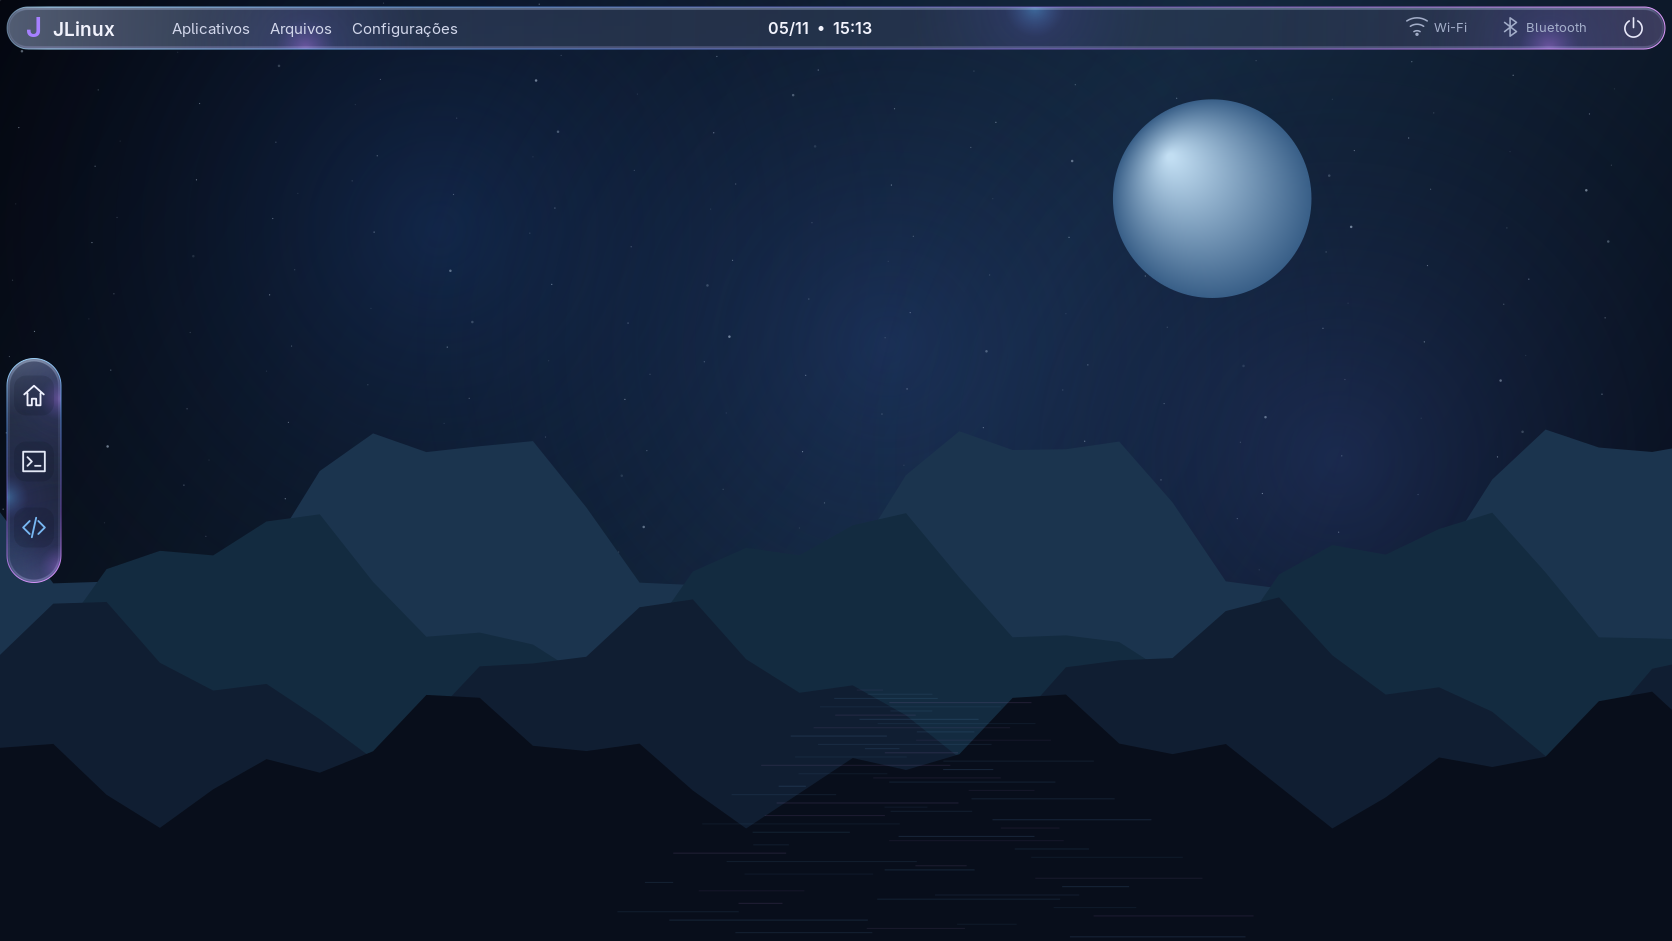
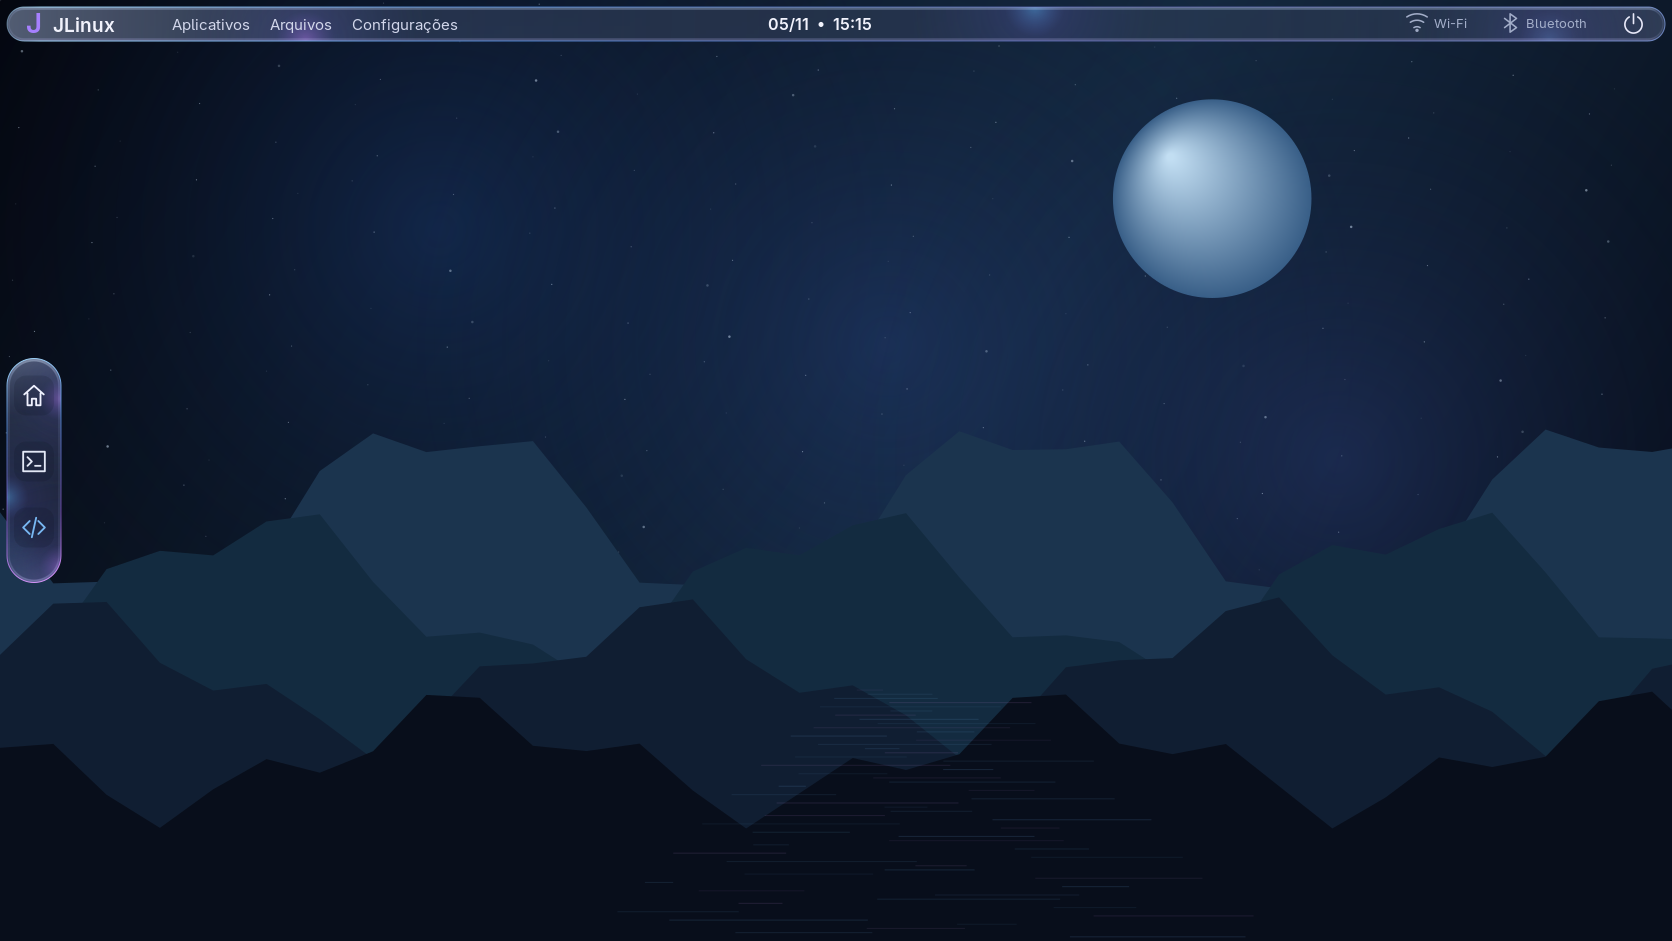
fix: reduce top panel height and balance right rim colors

Changed region(s): [[0.0, 0.0, 0.9952, 0.0616]]

diff --git a/src/effects/glass.c b/src/effects/glass.c
@@ -9,6 +9,7 @@ static void rounded(cairo_t *cr, struct ui_rect r, double radius) {
 }
 void jlinux_glass_paint(cairo_t *cr, struct ui_rect rect, double radius,
         cairo_surface_t *backdrop, double origin_x, double origin_y, struct jlinux_glass effects) {
+    bool horizontal = rect.width > rect.height;
     cairo_save(cr); rounded(cr, rect, radius); cairo_clip(cr);
     if (backdrop) {
         cairo_save(cr); cairo_scale(cr, 4, 4);
@@ -25,7 +26,7 @@ void jlinux_glass_paint(cairo_t *cr, struct ui_rect rect, double radius,
         cairo_pattern_add_color_stop_rgba(shine, 0, .77, .85, 1, .34);
         cairo_pattern_add_color_stop_rgba(shine, .25, .45, .53, .69, .10);
         cairo_pattern_add_color_stop_rgba(shine, .75, .23, .21, .34, .035);
-        cairo_pattern_add_color_stop_rgba(shine, 1, .66, .51, .81, .22);
+        cairo_pattern_add_color_stop_rgba(shine, 1, horizontal ? .50 : .66, horizontal ? .57 : .51, horizontal ? .76 : .81, horizontal ? .18 : .22);
         cairo_set_source(cr, shine); cairo_paint(cr); cairo_pattern_destroy(shine);
         /* Local light catches the bevel; it is not an animated reflection. */
         const double positions[] = {.18, .62, .93};
@@ -35,7 +36,11 @@ void jlinux_glass_paint(cairo_t *cr, struct ui_rect rect, double radius,
             double spread = rect.height > rect.width ? 90 : 125;
             if (rect.height > rect.width) { x = i == 1 ? rect.x : rect.x + rect.width; y = rect.y + rect.height * positions[i]; }
             cairo_pattern_t *light = cairo_pattern_create_radial(x, y, 0, x, y, spread);
-            cairo_pattern_add_color_stop_rgba(light, 0, i == 1 ? .36 : .72, i == 1 ? .69 : .48, 1, .46);
+            if (horizontal && i == 2) {
+                cairo_pattern_add_color_stop_rgba(light, 0, .45, .60, 1, .32);
+            } else {
+                cairo_pattern_add_color_stop_rgba(light, 0, i == 1 ? .36 : .72, i == 1 ? .69 : .48, 1, .46);
+            }
             cairo_pattern_add_color_stop_rgba(light, .24, .35, .34, .82, .14);
             cairo_pattern_add_color_stop_rgba(light, 1, .2, .25, .5, 0);
             cairo_set_source(cr, light); cairo_paint(cr); cairo_pattern_destroy(light);
@@ -58,8 +63,8 @@ void jlinux_glass_paint(cairo_t *cr, struct ui_rect rect, double radius,
             cairo_pattern_add_color_stop_rgba(edge, 2 * radius / rect.width, .65, .86, 1, .95);
         }
         cairo_pattern_add_color_stop_rgba(edge, .3, .38, .64, 1, .68);
-        cairo_pattern_add_color_stop_rgba(edge, .7, .66, .40, .95, .58);
-        cairo_pattern_add_color_stop_rgba(edge, 1, .88, .61, 1, .98);
+        cairo_pattern_add_color_stop_rgba(edge, .7, horizontal ? .48 : .66, horizontal ? .49 : .40, horizontal ? .83 : .95, .58);
+        cairo_pattern_add_color_stop_rgba(edge, 1, horizontal ? .55 : .88, horizontal ? .67 : .61, horizontal ? .95 : 1, horizontal ? .70 : .98);
         cairo_set_source(cr, edge); cairo_set_line_width(cr, 1); cairo_stroke(cr);
         struct ui_rect inner = {rect.x + 2, rect.y + 2, rect.width - 4, rect.height - 4};
         rounded(cr, inner, radius - 2); cairo_set_source_rgba(cr, .75, .83, 1, .12);

diff --git a/src/shell/main.c b/src/shell/main.c
@@ -23,7 +23,7 @@
 #include <wayland-cursor.h>
 #include "layer-shell-client.h"
 extern char **environ;
-enum { PANEL_HEIGHT = 44, PANEL_MARGIN = 6, PANEL_ZONE = 52,
+enum { PANEL_HEIGHT = 36, PANEL_MARGIN = 6, PANEL_ZONE = 44,
     DOCK_WIDTH = 56, DOCK_HEIGHT = 226, DOCK_MARGIN = 6, DOCK_ZONE = 64 };
 struct app;
 struct surface {

diff --git a/TASKS.md b/TASKS.md
@@ -135,3 +135,9 @@ Próxima entrega visual: protótipo que reproduza fielmente composição, materi
 ## Correção localizada — fix/panel-left-edge
 
 Brilho do contorno externo na ponta esquerda da barra reduzido de 0,95 para 0,40 de alpha, retornando gradualmente ao brilho anterior após a curva. Dock, tonalização e restante do material preservados. Seis testes release passaram; prévia atualizada. Ajuste visual sem benchmark nesta alteração.
+
+## Barra de 36 px e borda direita — fix/compact-panel-right-rim
+
+- Barra de 44 para 36 px, preservando margem de 6 px. Reserva superior reduzida junto com a altura; conteúdo continua centralizado e prévia usa as constantes do shell.
+- Borda e reflexo direitos da barra com azul-violeta menos rosado e intensidade mais uniforme. Dock e redução de brilho da ponta esquerda preservados.
+- Seis testes release passaram; prévia inspecionada. Sem nova execução de sanitizers ou benchmark nesta alteração visual.

diff --git a/docs/visual-style.md b/docs/visual-style.md
@@ -49,3 +49,7 @@ Após feedback positivo sobre o material mais claro, a barra passa a 44 px de al
 ### Dock compacto
 
 Dock com 56 px de largura, 6 px de margem esquerda e botões de 40×40. Detalhes azuis/violetas das bordas e reflexos localizados recebem mais brilho, preservando a tonalização clara e a barra de 44 px. Prévia e geometria de execução compartilham constantes; wallpaper preservado.
+
+### Refinamento da barra superior
+
+Altura atual: 36 px, margem de 6 px. A extremidade direita usa azul-violeta menos rosado e menos intenso, com reflexo localizado suavizado. O dock mantém seu material e geometria anteriores. A ponta esquerda da barra mantém o brilho reduzido solicitado.
